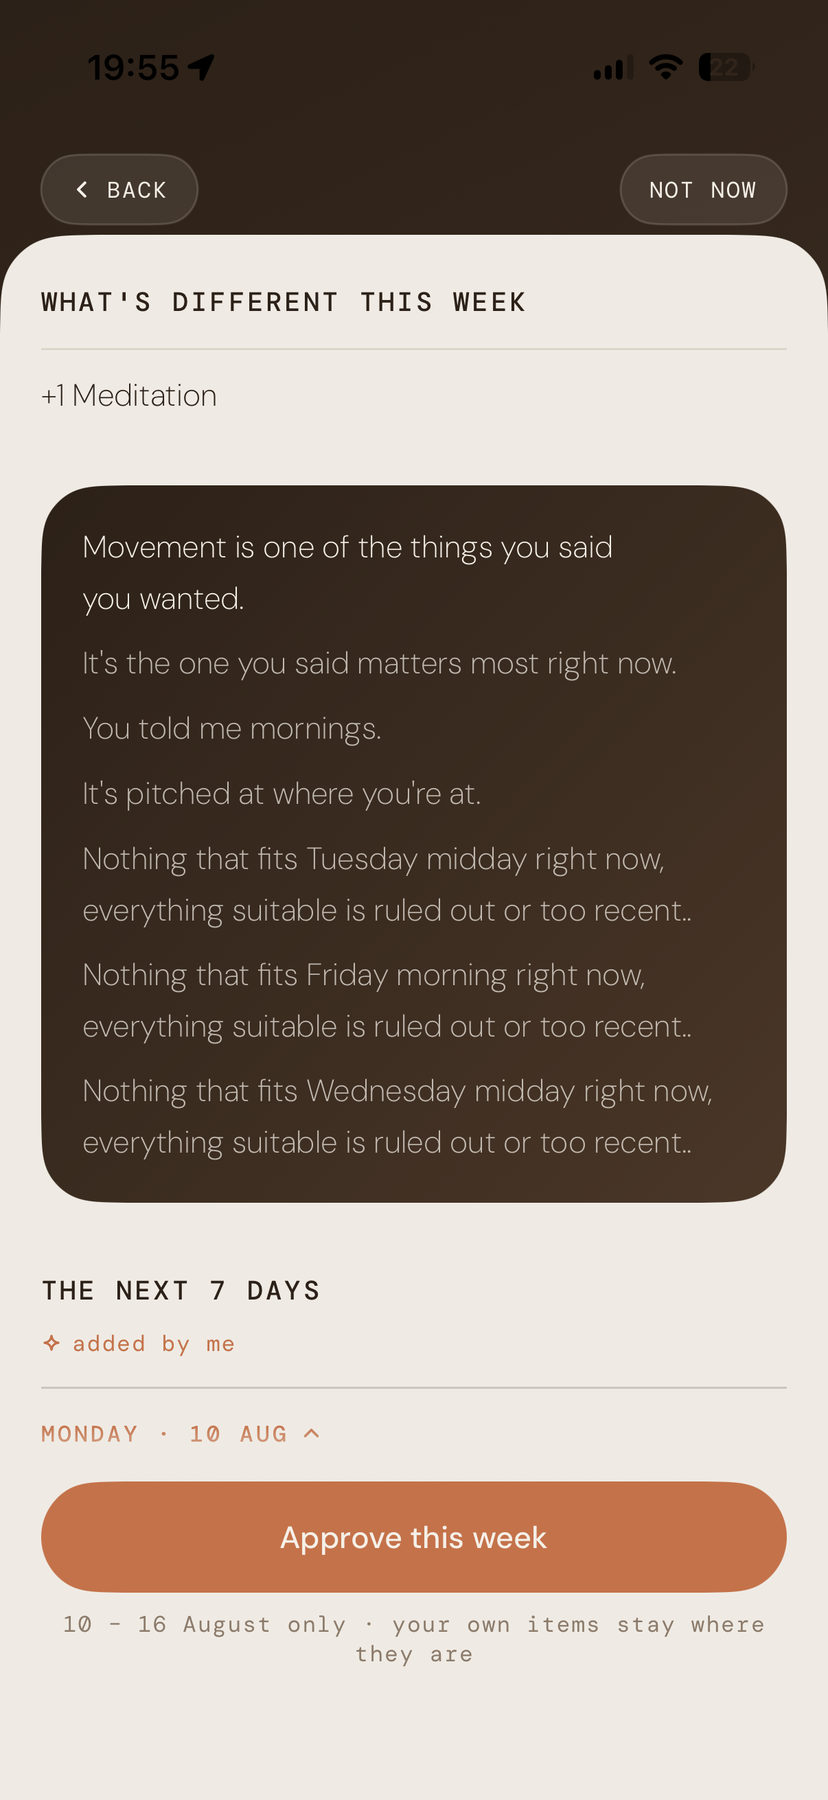
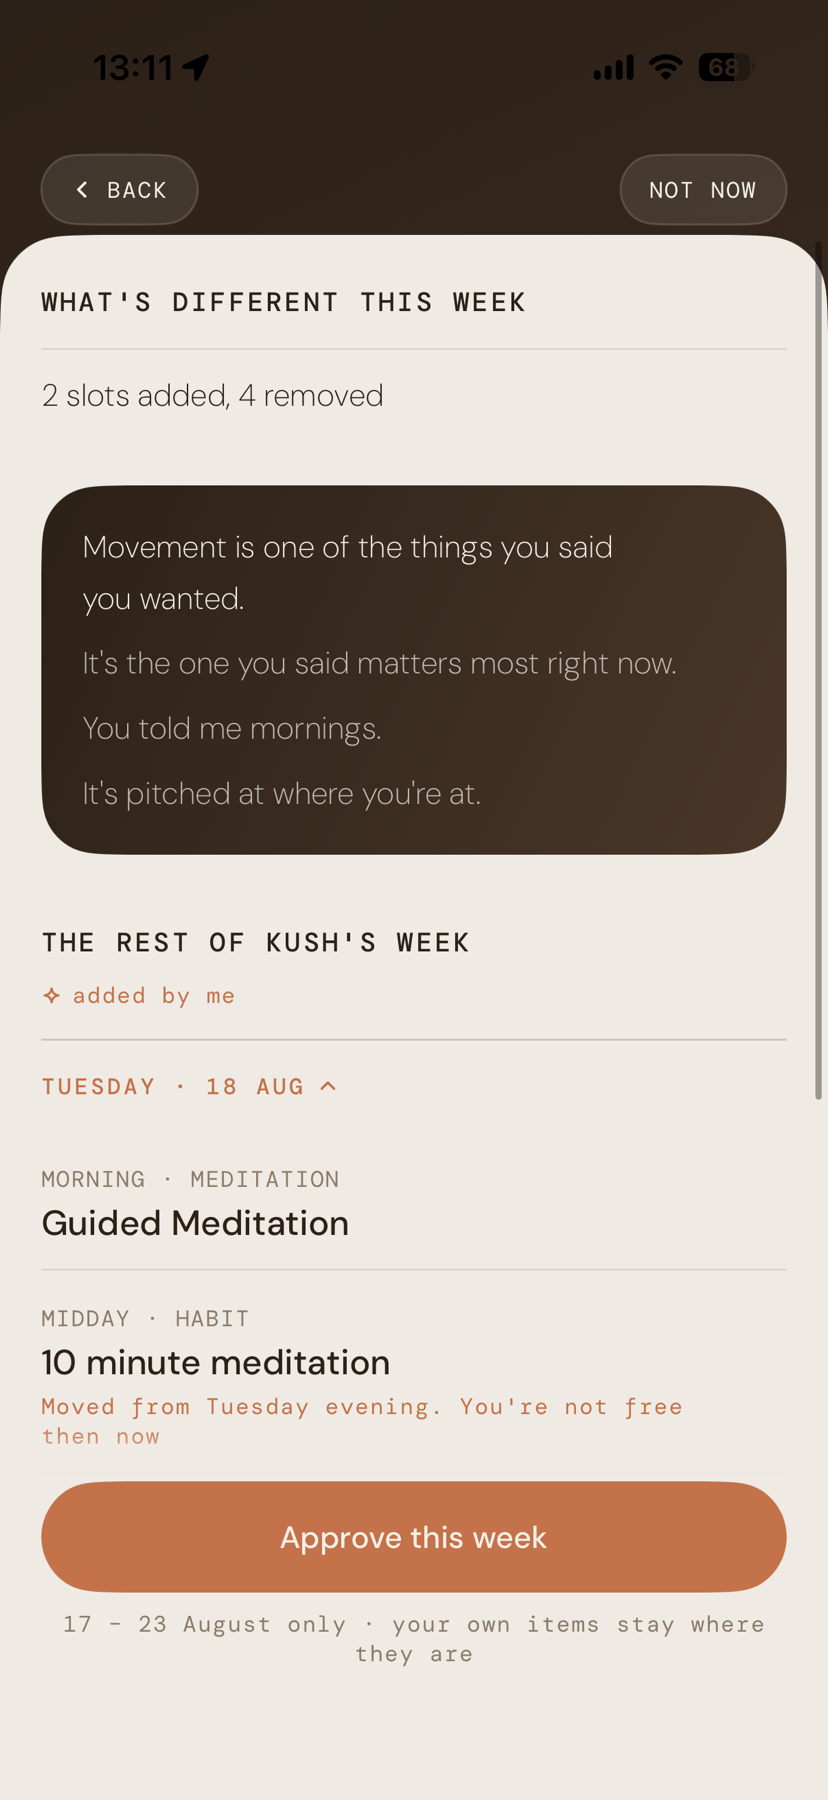
LV5-007: swap ritualProposal screenshot for the newer 2026-08-17 capture
Kush ruled option B, 2026-08-22: swap ~/Downloads/IMG_5175.PNG (the ritual
proposal "What's different this week" screen, captured 2026-08-17) into the
ritualProposal slot now; the other 7 slots stay as they are (no newer
candidate exists for any of them - IMG_3998.PNG is onboarding, not a slot).

Crop convention: measured the existing files were never actually cropped -
828x1800 and the raw capture's 1206x2622 are the same aspect ratio to
within rounding, so the Aug 9 batch was a straight proportional resize, not
a status-bar/home-indicator crop. Confirmed against three raw pre-resize
captures in ~/Downloads/Junoon V3 Screenshots/{cleaned,New RItual}/, all
1206x2622. Applied the same resize (sips -z 1800 828) rather than inventing
a crop the original files never had.

Alt text in lib/screens.ts updated to describe the new screen's actual
content per the ticket ("What's different this week: 2 slots added, 4
removed...") instead of the old generic wording.

diff --git a/lib/screens.ts b/lib/screens.ts
@@ -27,8 +27,12 @@ export const SCREEN_HEIGHT = 1800
 export const SCREENS = {
   ritualProposal: {
     src: '/screenshots/v3/ritual-proposal.png',
+    // LV5-007 (2026-08-22): swapped for a newer capture (2026-08-17) of the
+    // same ritual-proposal screen - content changed, framing and crop did
+    // not (straight proportional resize of the same 1206x2622 capture
+    // format the rest of the batch used, no visible crop in either).
     alt:
-      'The Sunday ritual proposing the coming week, showing what changed and an Approve this week button',
+      "What's different this week: 2 slots added, 4 removed, with an Approve this week button",
   },
   ritualWeek: {
     src: '/screenshots/v3/ritual-week.png',
